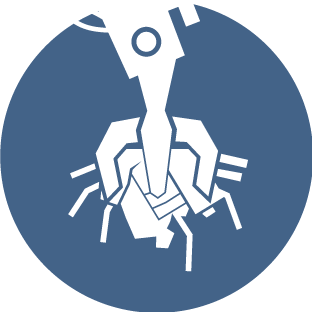
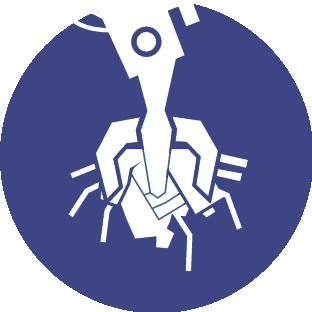
signUp screen updated fields

diff --git a/lib/app/modules/signUp/views/sign_up_view.dart b/lib/app/modules/signUp/views/sign_up_view.dart
@@ -5,11 +5,14 @@ import 'package:google_fonts/google_fonts.dart';
 import 'package:scrap_bid/app/data/constants.dart';
 import 'package:scrap_bid/app/modules/login/controllers/login_controller.dart';
 import 'package:scrap_bid/app/modules/login/views/login_view.dart';
+import 'package:scrap_bid/app/modules/signUp/controllers/sign_up_controller.dart';
 import 'package:scrap_bid/app/routes/app_pages.dart';
 
 class SignUpView extends StatelessWidget {
-  final LoginController logController =
+  final LoginController _logController =
       Get.put<LoginController>(LoginController());
+  final SignUpController _signUpController =
+      Get.put<SignUpController>(SignUpController());
   @override
   Widget build(BuildContext context) {
     return Scaffold(
@@ -22,6 +25,7 @@ class SignUpView extends StatelessWidget {
             width: Get.width,
             height: Get.height,
             child: ListView(
+              physics: BouncingScrollPhysics(),
               shrinkWrap: true,
               children: [
                 SizedBox(
@@ -50,6 +54,20 @@ class SignUpView extends StatelessWidget {
                   hidetext: false,
                   suffixIcon: null,
                   onpress: () {},
+                  textEditingController: _signUpController.username,
+                ),
+                SizedBox(
+                  height: 30,
+                ),
+                LoginButtons(
+                  icon: Icon(Icons.phone),
+                  hintText: "Enter your Phone Number",
+                  heading: "Phone Number",
+                  hidetext: false,
+                  suffixIcon: null,
+                  onpress: () {},
+                  textEditingController: _signUpController.username,
+                  keyboard: TextInputType.phone,
                 ),
                 SizedBox(
                   height: 30,
@@ -61,6 +79,8 @@ class SignUpView extends StatelessWidget {
                   hidetext: false,
                   suffixIcon: null,
                   onpress: () {},
+                  textEditingController: _signUpController.email,
+                  keyboard: TextInputType.emailAddress,
                 ),
                 SizedBox(
                   height: 30,
@@ -68,18 +88,36 @@ class SignUpView extends StatelessWidget {
                 Obx(
                   () => LoginButtons(
                     icon: Icon(Icons.lock_outline_rounded),
-                    hintText: "Enter your Password",
+                    hintText: "Enter Password",
                     heading: "Password",
-                    suffixIcon: logController.obscureText.value
+                    suffixIcon: _logController.obscureText.value
                         ? Icon(Icons.visibility_outlined)
                         : Icon(Icons.visibility_off_outlined),
-                    hidetext: logController.obscureText.value,
+                    hidetext: _logController.obscureText.value,
                     onpress: () {
-                      logController.toggle();
+                      _logController.toggle();
                     },
-                    ontextChange: (text) {
-                      // controller.setpassString(text);
+                    ontextChange: (text) {},
+                    textEditingController: _signUpController.password,
+                  ),
+                ),
+                SizedBox(
+                  height: 30,
+                ),
+                Obx(
+                  () => LoginButtons(
+                    icon: Icon(Icons.lock_outline_rounded),
+                    hintText: "Confirm Password",
+                    heading: "Password",
+                    suffixIcon: _logController.obscureText.value
+                        ? Icon(Icons.visibility_outlined)
+                        : Icon(Icons.visibility_off_outlined),
+                    hidetext: _logController.obscureText.value,
+                    onpress: () {
+                      _logController.toggle();
                     },
+                    ontextChange: (text) {},
+                    textEditingController: _signUpController.password,
                   ),
                 ),
                 SizedBox(
@@ -88,8 +126,7 @@ class SignUpView extends StatelessWidget {
                 MainButton(
                   title: "Submit",
                   onpress: () {
-                    // print(controller.passwordText.toString());
-                    // Get.toNamed(Routes.HOME);
+                    _signUpController.validate();
                   },
                 ),
                 SizedBox(
@@ -106,6 +143,9 @@ class SignUpView extends StatelessWidget {
                             fontSize: 16, color: Color(0xff919294))),
                   ),
                 ),
+                SizedBox(
+                  height: 30,
+                )
               ],
             ),
           ),

diff --git a/lib/app/modules/login/views/login_view.dart b/lib/app/modules/login/views/login_view.dart
@@ -34,7 +34,10 @@ class LoginView extends GetView<LoginController> {
                 CircleAvatar(
                   backgroundColor: AppConstants.APP_THEME_COLOR,
                   radius: 60,
-                  child: Image.asset('assets/images/icon.png'),
+                  child: Image.asset(
+                    'assets/images/icon.png',
+                    fit: BoxFit.contain,
+                  ),
                 ),
                 Padding(
                     padding: const EdgeInsets.all(8.0),
@@ -58,6 +61,7 @@ class LoginView extends GetView<LoginController> {
                     controller.setEmailString(text);
                   },
                   textEditingController: controller.email,
+                  keyboard: TextInputType.emailAddress,
                 ),
                 SizedBox(
                   height: 40,
@@ -100,7 +104,7 @@ class LoginView extends GetView<LoginController> {
                         Get.toNamed(Routes.SIGN_UP);
                       },
                       child: Text(
-                        "SignUp",
+                        "Sign Up",
                         style: textstyle.copyWith(
                             fontSize: 16, color: Color(0xff919294)),
                       ),
@@ -163,12 +167,14 @@ class LoginButtons extends StatelessWidget {
       this.hidetext,
       this.onpress,
       this.ontextChange,
-      this.textEditingController});
+      this.textEditingController,
+      this.keyboard});
   final Function onpress;
   final String hintText, heading;
   final Icon icon;
   final Icon suffixIcon;
   final bool hidetext;
+  final TextInputType keyboard;
   TextEditingController textEditingController;
   final LoginController controller =
       Get.put<LoginController>(LoginController());
@@ -176,7 +182,7 @@ class LoginButtons extends StatelessWidget {
   @override
   Widget build(BuildContext context) {
     return ClayContainer(
-      height: Get.height / 8,
+      height: Get.height / 8.5,
       width: Get.width,
       color: Colors.white,
       borderRadius: 20,
@@ -211,6 +217,10 @@ class LoginButtons extends StatelessWidget {
                     primaryColor: AppConstants.APP_THEME_COLOR,
                   ),
                   child: TextFormField(
+                      keyboardType: keyboard,
+                      cursorColor: AppConstants.APP_THEME_COLOR,
+                      textInputAction: TextInputAction.unspecified,
+                      maxLines: 1,
                       controller: textEditingController,
                       onChanged: (text) {
                         ontextChange(text);

diff --git a/lib/app/modules/login/controllers/login_controller.dart b/lib/app/modules/login/controllers/login_controller.dart
@@ -1,5 +1,7 @@
+import 'package:flutter/cupertino.dart';
 import 'package:flutter/material.dart';
 import 'package:get/get.dart';
+import 'package:scrap_bid/app/data/constants.dart';
 import 'package:scrap_bid/app/routes/app_pages.dart';
 
 class LoginController extends GetxController {
@@ -29,19 +31,39 @@ class LoginController extends GetxController {
   void validate() {
     if (email.text.isEmpty) {
       errorSnackbar(msg: 'Enter Email Address');
+    } else if (!GetUtils.isEmail(email.text)) {
+      errorSnackbar(msg: 'Invalid Email');
+      print(email.value);
     } else if (password.text.isEmpty) {
       errorSnackbar(msg: 'Enter Password');
-    } else if (password.text.length < 6) {
-      errorSnackbar(msg: "Password must be 6 digit");
+    } else if (password.text.length < 8) {
+      errorSnackbar(msg: "Password must be 8 digit");
     } else {
       Get.toNamed(Routes.HOME);
     }
   }
 
   void errorSnackbar({@required String msg}) {
-    return Get.snackbar('$msg', "Error !",
-        snackPosition: SnackPosition.TOP,
-        backgroundColor: Colors.red[300],
-        colorText: Colors.white);
+    return Get.rawSnackbar(
+      message: '$msg',
+      margin: EdgeInsets.symmetric(horizontal: 10),
+      borderRadius: 8,
+      isDismissible: true,
+      dismissDirection: SnackDismissDirection.HORIZONTAL,
+      icon: Icon(
+        Icons.warning_amber_rounded,
+        color: Colors.white,
+      ),
+      overlayBlur: 1,
+      shouldIconPulse: true,
+      mainButton: TextButton(
+          onPressed: () {
+            Get.back();
+          },
+          child: Text("Dismiss")),
+      snackPosition: SnackPosition.TOP,
+      backgroundColor: AppConstants.SNACK_BG_COLOR,
+      // colorText: Colors.white
+    );
   }
 }

diff --git a/lib/app/modules/signUp/controllers/sign_up_controller.dart b/lib/app/modules/signUp/controllers/sign_up_controller.dart
@@ -1,8 +1,12 @@
+import 'package:flutter/material.dart';
 import 'package:get/get.dart';
+import 'package:scrap_bid/app/routes/app_pages.dart';
 
 class SignUpController extends GetxController {
   //TODO: Implement SignUpController
-
+  TextEditingController email = TextEditingController();
+  TextEditingController password = TextEditingController();
+  TextEditingController username = TextEditingController();
   @override
   void onInit() {
     super.onInit();
@@ -15,4 +19,27 @@ class SignUpController extends GetxController {
 
   @override
   void onClose() {}
+  void validate() {
+    if (email.text.isEmpty) {
+      errorSnackbar(msg: 'Enter Email Address');
+    } else if (!GetUtils.isEmail(email.text)) {
+      errorSnackbar(msg: 'Invalid Email');
+    } else if (username.text.isEmpty) {
+      errorSnackbar(msg: 'Enter Your Name');
+    } else if (password.text.isEmpty) {
+      errorSnackbar(msg: 'Enter Password');
+    } else if (password.text.length < 8) {
+      errorSnackbar(msg: "Password must be 8 digit");
+    } else {
+      Get.dialog(Container());
+      Get.toNamed(Routes.LOGIN);
+    }
+  }
+
+  void errorSnackbar({@required String msg}) {
+    return Get.snackbar("Error ", '$msg',
+        snackPosition: SnackPosition.TOP,
+        backgroundColor: Colors.red[300],
+        colorText: Colors.white);
+  }
 }

diff --git a/lib/app/modules/forgotPass/views/forgot_pass_view.dart b/lib/app/modules/forgotPass/views/forgot_pass_view.dart
@@ -63,10 +63,15 @@ class ForgotPassView extends GetView<ForgotPassController> {
                 Row(
                   mainAxisAlignment: MainAxisAlignment.spaceBetween,
                   children: [
-                    Text(
-                      "SignUp",
-                      style: textstyle.copyWith(
-                          fontSize: 16, color: Color(0xff919294)),
+                    GestureDetector(
+                      onTap: () {
+                        Get.toNamed(Routes.SIGN_UP);
+                      },
+                      child: Text(
+                        "Sign Up",
+                        style: textstyle.copyWith(
+                            fontSize: 16, color: Color(0xff919294)),
+                      ),
                     ),
                     GestureDetector(
                       onTap: () {

diff --git a/lib/app/data/constants.dart b/lib/app/data/constants.dart
@@ -7,6 +7,6 @@ class AppConstants {
   static const Color PRIMARY_COLOR_DARK = Color(0xFF0D3656);
   static const Color APP_THEME_COLOR = Color(0xFF3D4584);
   static const Color LABEL_COLOR = Color(0xFF353535);
-  static const Color TEXT_BACKGROUND_COLOR = Color(0xFF50584F);
+  static const Color SNACK_BG_COLOR = Color(0xFF323232);
   static const Color BACKGROUND_COLOR_BOTTOM = Color(0xffF3F8FE);
 }
